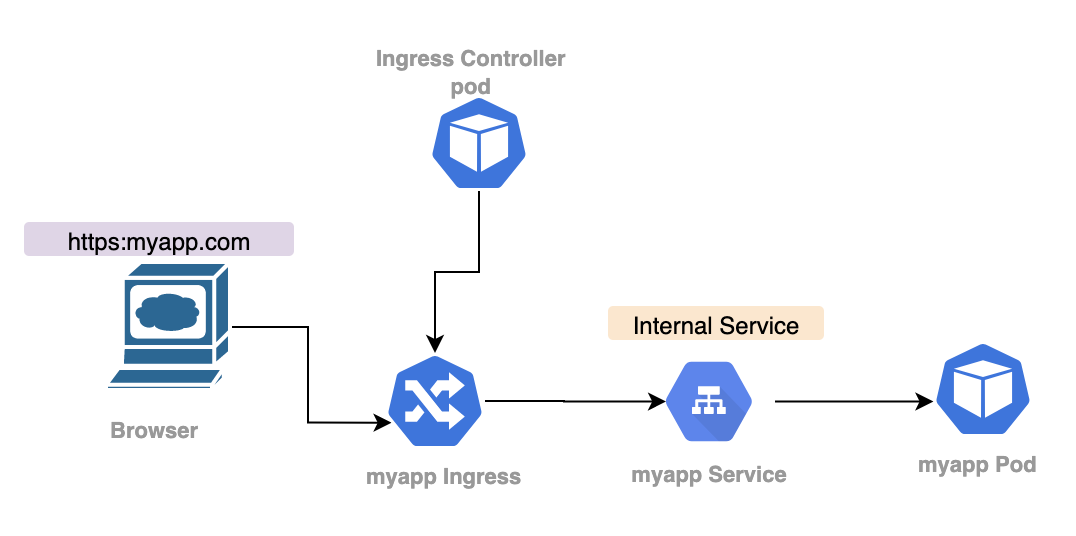
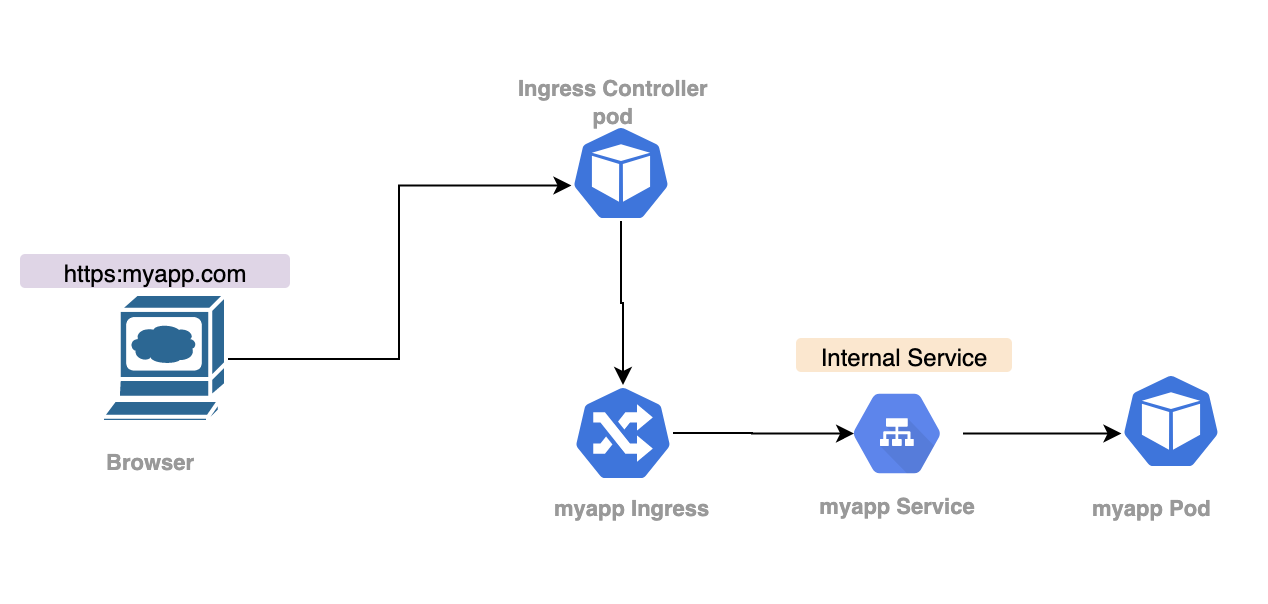
more

diff --git a/README.md b/README.md
@@ -489,9 +489,12 @@ minikube service your-service-name
 1. Create your ingress yaml
 2. tie it up to internal service
 3. create an `ingress implementation` which is an `ingress controller`  
+4. Need to set up entry point, which varies based on cloud, bare metal etc. 
+5. Create an ingress rule.  
   
-  
-![](images/ingress.png)  
+
+![](images/ingress.png)    
+
 *compare the flow with external service above* 
   
 
@@ -500,7 +503,7 @@ The URL will look like:
 
 `http://123.45.678:35222`  
   
-Using Ingress will look like `myapp-ingress --> internal service --> pod` 
+Using Ingress will look like `browser --> ingress controller --> myapp-ingress --> internal service --> pod` 
 The URL will look like:  
 
 `https://my-lovely-app.com`  
@@ -551,8 +554,31 @@ spec:
   
 - Must be `valid ip address`  
 - You must map the domain name to `Node's entry ip address` which is the `entry point`  i.e. the hosting node.  
-  
+    
+## Ingress controller  
+
 Creating the yaml isn't enough, you need to create `ingress implementation` which is an `ingress controller`
+  
+- Evaluates all the rules
+- Manages redirection
+- Entrypont to cluster 
+- Many 3rd party impmentations i.e. k8s Nginx Ingress controller 
+    
+**Entry point must be setup** be it external hardware, software, cloud etc.   
+  
+External request load balancing happens prior to entry point.
+The ingress controller decides what to pass on to ingress service.  
+  
+### Ingress controller on minikube example  
+  
+`minikube addons enable ingress`
+
+Automatically starts the k8s Nginx ingress controller. 
+
+If we `kubectl get pod -n kube-system` we will see it added   
+  
+### Create ingress rule 
+
 
 
 
